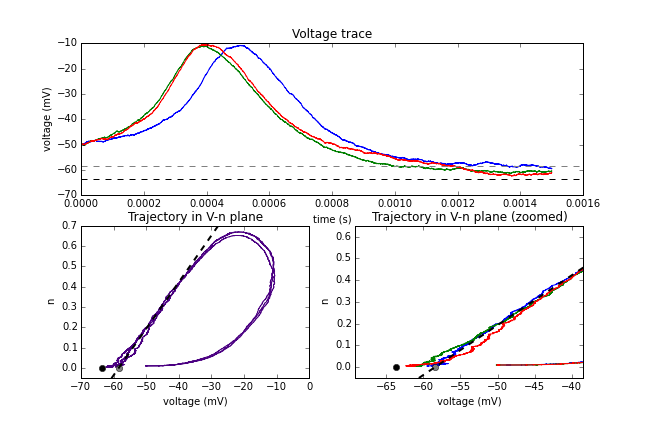
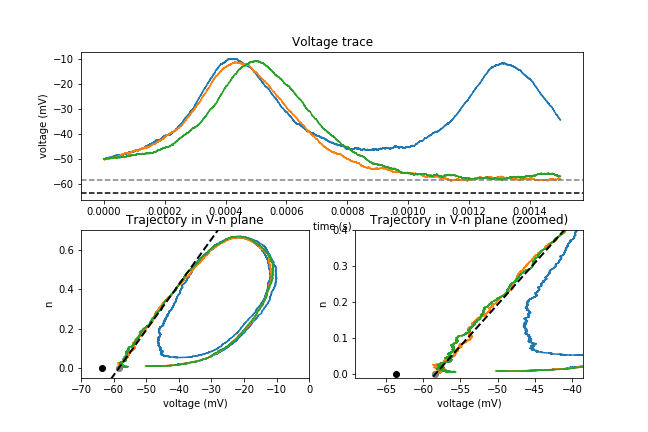
Distribution of last crossing plots

diff --git a/Neuron.py b/Neuron.py
@@ -110,8 +110,8 @@ def plot_everything(tau_n, Iapp, duration, I_noise, number =1, v0=-30*mV, n0=-0,
             for key in keys:
                 results[key].append(result_i[key]) 
         
-        with open('simulations/'+file_name, 'wb') as f:
-            pickle.dump(results, f) 
+#        with open('simulations/'+file_name, 'wb') as f:
+#            pickle.dump(results, f) 
         
         if plot:
             plot_traces(t,V,n,node,saddle, sep_slope, cycle_boundary)
@@ -120,12 +120,12 @@ def plot_everything(tau_n, Iapp, duration, I_noise, number =1, v0=-30*mV, n0=-0,
             plt.close()
             
      
-    if plot:
-        plot_histograms(results) 
-            
-        if duration/ms >1000:
-            plt.savefig('histograms/'+file_name+'.png')
-        plt.show()
+#    if plot:
+#        plot_histograms(results) 
+#            
+#        if duration/ms >1000:
+#            plt.savefig('histograms/'+file_name+'.png')
+#        plt.show()
    
   
 def plot_traces(t,V,n,node, saddle, sep_slope, cycle_boundary):
@@ -155,7 +155,7 @@ def plot_traces(t,V,n,node, saddle, sep_slope, cycle_boundary):
     plt.title('Trajectory in V-n plane')
     plt.xlabel('voltage (mV)')
     plt.ylabel('n')
-    plt.plot(V.T,n.T, color = '#4B0082')
+    plt.plot(V.T,n.T)
     plt.plot(node[0], node[1],marker='o', color='0')
     plt.plot(saddle[0], saddle[1], marker = 'o', color = '.5')
     y = np.linspace(-.1,.7,50)
@@ -177,7 +177,8 @@ def plot_traces(t,V,n,node, saddle, sep_slope, cycle_boundary):
     y = np.linspace(-.05,.5,50)
     x = sep_slope[0]/sep_slope[1]*(y-saddle[1])+saddle[0]
     plt.plot(x,y, color = '0', linestyle = '--',linewidth = 2)
-    plt.ylim((-.05,.65))
+    plt.ylim((-.01,.4))
+    plt.tight_layout()  
     
 def quiet_stats(t, V, n, Spikes, saddle, sep_slope,node):
     '''We count as quiet ISIs when V reached the neighbourhhod of the node'''
@@ -332,10 +333,10 @@ E_K = -90 * mV
 tau = 1.0*ms
 
 #parameters to play with
-tau_n = .160*ms
-Iapp =3.2 * uA #/cm**2
+tau_n = .155*ms
+Iapp =1.2 * uA #/cm**2
 I_noise = 2.5*uA
-duration = 1.5*ms
+duration = 50000*ms
 
 
 
@@ -352,7 +353,7 @@ m_inf = 1./(1+exp((-20-v/mV)/15.)) : 1
 #Spikes, t, V, n = simulate_neuron(tau_n, Iapp, 1, -30*mV, 0, duration, I_noise)
 #ISIs = calculate_ISI(Spikes)
 #plt.hist(ISIs, bins = 100)
-plot_everything(tau_n=tau_n, Iapp=Iapp, duration=duration, I_noise=I_noise, number =3, v0=-50*mV, n0=.01, plot = True)
+plot_everything(tau_n=tau_n, Iapp=Iapp, duration=duration, I_noise=I_noise, number =5, v0=-50*mV, n0=.01, plot = False)
 
 #find_points(tau_n=tau_n, Iapp=Iapp, plot = True)
 #find_sep_approx(tau_n=tau_n, Iapp=Iapp)

diff --git a/last_down_distr.py b/last_down_distr.py
@@ -1,9 +1,9 @@
 from Neuron import get_points
 import numpy as np
 
-tau_n = .1575*ms
-Iapp = 3.9* uA #/cm**2
-I_noise = 2.5*uA
+tau_n = .155*ms
+Iapp = 1.2* uA #/cm**2
+I_noise = 2*uA
 duration = 10000*ms
 
 v0=-30*mV
@@ -22,5 +22,9 @@ n_last_up = np.array([n for neuron in results['n_last_up'] for n in neuron])
 
 V_last_down = (n_last_down - saddle[1])*sep_slope[0]/sep_slope[1] + saddle[0]
 
-#plt.hist(n_last_down, bins = 25)
-plt.hist(n_last_up, bins = 25)
+
+plt.figure(figsize=(3., 3.))
+plt.hist(n_last_down, bins = 15)
+plt.xlabel('n')
+plt.ylabel ('Distribution of n')
+plt.savefig('down_distr/'+file_name+'.png', bbox_inches='tight') 
